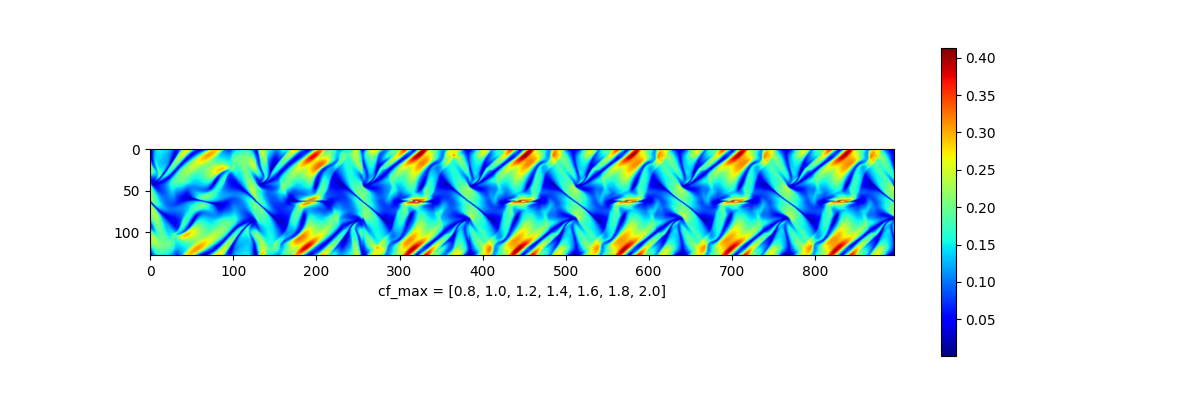
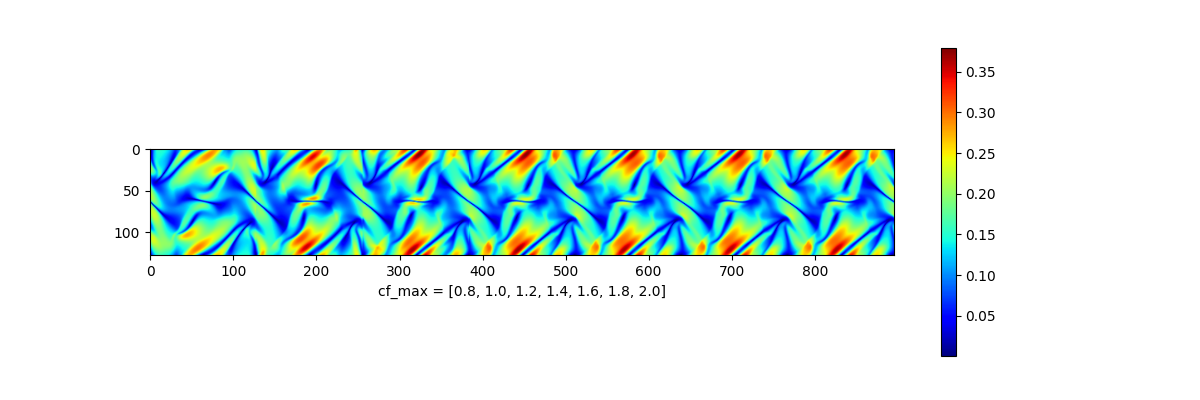
updating analysis figs

diff --git a/mhd-boris.py b/mhd-boris.py
@@ -16,8 +16,6 @@ The original problem has cf_max ~ 1.9, v_max ~ 1.6
 
 # Simulation parameters (global)
 N = 128  # resolution
-boxsize = 1.0
-gamma = 5.0 / 3.0  # ideal gas gamma
 courant_fac = 0.4
 t_end = 0.5
 t_out = 0.01  # draw frequency
@@ -672,6 +670,25 @@ def get_flux_llf(
     flux_Energy  is the matrix of energy fluxes
     """
 
+    # find wavespeeds
+    # c0_L = np.sqrt( gamma*(P_L-0.5*(Bx_L**2+By_L**2+Bz_L**2))/rho_L )
+    # c0_R = np.sqrt( gamma*(P_R-0.5*(Bx_R**2+By_R**2+Bz_R**2))/rho_R )
+    c0_L = np.sqrt(
+        gamma * (np.maximum(P_L - 0.5 * (Bx_L**2 + By_L**2 + Bz_L**2), 1.0e-16)) / rho_L
+    )
+    c0_R = np.sqrt(
+        gamma * (np.maximum(P_R - 0.5 * (Bx_R**2 + By_R**2 + Bz_R**2), 1.0e-16)) / rho_R
+    )
+    ca_L = np.sqrt((Bx_L**2 + By_L**2 + Bz_L**2) / rho_L)
+    ca_R = np.sqrt((Bx_R**2 + By_R**2 + Bz_R**2) / rho_R)
+    cf_L = np.sqrt(c0_L**2 + ca_L**2)
+    cf_R = np.sqrt(c0_R**2 + ca_R**2)
+    # apply boris factor to wave speeds and momentum flux
+    alpha_L = np.minimum(1.0, cf_limit / cf_L)
+    alpha_R = np.minimum(1.0, cf_limit / cf_R)
+    alpha = np.minimum(alpha_L, alpha_R)
+    alphaSq = alpha**2
+
     # left and right energies
     en_L = (
         (P_L - 0.5 * (Bx_L**2 + By_L**2 + Bz_L**2)) / (gamma - 1.0)
@@ -711,29 +728,12 @@ def get_flux_llf(
     flux_By = (By_star * momx_star - Bx_star * momy_star) / rho_star
     flux_Bz = (Bz_star * momx_star - Bx_star * momz_star) / rho_star
 
-    # find wavespeeds
-    # c0_L = np.sqrt( gamma*(P_L-0.5*(Bx_L**2+By_L**2+Bz_L**2))/rho_L )
-    # c0_R = np.sqrt( gamma*(P_R-0.5*(Bx_R**2+By_R**2+Bz_R**2))/rho_R )
-    c0_L = np.sqrt(
-        gamma * (np.maximum(P_L - 0.5 * (Bx_L**2 + By_L**2 + Bz_L**2), 1.0e-16)) / rho_L
-    )
-    c0_R = np.sqrt(
-        gamma * (np.maximum(P_R - 0.5 * (Bx_R**2 + By_R**2 + Bz_R**2), 1.0e-16)) / rho_R
-    )
-    ca_L = np.sqrt((Bx_L**2 + By_L**2 + Bz_L**2) / rho_L)
-    ca_R = np.sqrt((Bx_R**2 + By_R**2 + Bz_R**2) / rho_R)
-    cf_L = np.sqrt(c0_L**2 + ca_L**2)
-    cf_R = np.sqrt(c0_R**2 + ca_R**2)
-    # apply boris factor to wave speeds and momentum flux
-    # alpha_L = np.minimum(1.0, cf_limit / cf_L)
-    # alpha_R = np.minimum(1.0, cf_limit / cf_R)
-    # alpha = np.minimum(alpha_L, alpha_R)
-    # alphaSq = alpha ** 2
     ## Try 1
     # flux_Momx *= alphaSq
     # flux_Momy *= alphaSq
-    # cf_L *= alpha_L
-    # cf_R *= alpha_R
+    # flux_Momz *= alphaSq
+    # cf_L *= alpha
+    # cf_R *= alpha
 
     C_L = cf_L + np.abs(vx_L)
     C_R = cf_R + np.abs(vx_R)
@@ -942,15 +942,13 @@ def main():
         return
 
     # Parse command line argument
-    # problem id & fast speed limit for boris integrator (e.g. try 1.0, 1.5, 2.0)
+    # problem id & fast speed limit for boris integrator (e.g. 1.0, 1.5, 2.0)
     prob_id = int(sys.argv[1])
     cf_limit = float(sys.argv[2])
 
     t = 0.0
     global \
         N, \
-        boxsize, \
-        gamma, \
         courant_fac, \
         t_end, \
         t_out, \
@@ -959,6 +957,7 @@ def main():
         plot_in_real_time
 
     # Mesh
+    boxsize = 1.0
     dx = boxsize / N
     vol = dx**2
     xlin = np.linspace(0.5 * dx, boxsize - 0.5 * dx, N)
@@ -967,9 +966,11 @@ def main():
     # Xn, Yn = np.meshgrid( xlin_node, xlin_node, indexing="ij" )
 
     # Generate Initial Conditions:
+    gamma = 5.0 / 3.0  # ideal gas gamma
     if prob_id == 1:
         # Orszag-Tang vortex problem
-        riemann_solver = "hlld"
+        # riemann_solver = "hlld"
+        t_end = 0.5
         rho = (gamma**2 / (4.0 * np.pi)) * np.ones(X.shape)
         vx = -np.sin(2.0 * np.pi * Y)
         vy = np.sin(2.0 * np.pi * X)
@@ -985,7 +986,7 @@ def main():
         rho = np.ones(X.shape)
         P = 0.1 * np.ones(X.shape)  # init. gas pressure
         amp = 0.1
-        t_end = 4.0
+        t_end = 5.0
 
         alpha = np.pi / 4.0
         Xpar = (np.cos(alpha) * X + np.sin(alpha) * Y) * np.sqrt(2.0)
@@ -1008,6 +1009,7 @@ def main():
 
     elif prob_id == 3:
         # Magnetic Field Loop Test
+        t_end = 1.0
         rho = np.ones(X.shape)
         P = np.ones(X.shape)
         vx = np.ones(X.shape) * np.sin(np.pi / 3.0)
@@ -1157,16 +1159,19 @@ def main():
                 plt.imshow(np.sqrt(bx**2 + by**2).T, cmap="jet")
                 plt.clim(0.0, 0.8)
             elif prob_id == 2:
-                plt.imshow(Bz.T, cmap="jet")
-                plt.clim(-0.1, 0.1)
+                # plt.imshow(Bz.T, cmap="jet")
+                # plt.clim(-0.1, 0.1)
+                plt.plot(Bz[:, N // 2])
+                plt.ylim(-0.2, 0.2)
             elif prob_id == 3:
                 plt.imshow(np.sqrt(bx**2 + by**2).T, cmap="jet")
                 plt.clim(0.0, 0.0011)
             ax = plt.gca()
-            ax.invert_yaxis()
-            ax.get_xaxis().set_visible(False)
-            ax.get_yaxis().set_visible(False)
-            ax.set_aspect("equal")
+            if prob_id != 2:
+                ax.invert_yaxis()
+                ax.get_xaxis().set_visible(False)
+                ax.get_yaxis().set_visible(False)
+                ax.set_aspect("equal")
             plt.pause(0.001)
             out_count += 1
 
@@ -1191,6 +1196,7 @@ def main():
     cf = np.sqrt(c0**2 + ca**2)
     np.save(prefix + "data_rho_" + str(cf_limit) + ".npy", rho.T)
     np.save(prefix + "data_P_B_" + str(cf_limit) + ".npy", P_B.T)
+    np.save(prefix + "data_Bz_" + str(cf_limit) + ".npy", Bz.T)
     np.save(prefix + "data_v_" + str(cf_limit) + ".npy", v.T)
     np.save(prefix + "data_ca_" + str(cf_limit) + ".npy", ca.T)
     np.save(prefix + "data_cf_" + str(cf_limit) + ".npy", cf.T)

diff --git a/analysis.py b/analysis.py
@@ -13,6 +13,7 @@ def main():
 
         rho = {}
         P_B = {}
+        Bz = {}
         v = {}
         ca = {}
         cf = {}
@@ -26,6 +27,9 @@ def main():
             )
             P_B[cf_limit] = np.load(
                 "output/" + prefix + "data_P_B_" + str(cf_limit) + ".npy"
+            )
+            Bz[cf_limit] = np.load(
+                "output/" + prefix + "data_Bz_" + str(cf_limit) + ".npy"
             )
             v[cf_limit] = np.load(
                 "output/" + prefix + "data_v_" + str(cf_limit) + ".npy"
@@ -47,40 +51,59 @@ def main():
         ca_all = np.hstack([ca[cf_limit] for cf_limit in cf_limits])
         cf_all = np.hstack([cf[cf_limit] for cf_limit in cf_limits])
 
-        plt.figure(figsize=(12, 4))
-        plt.imshow(rho_all, aspect=1, cmap="jet")
-        plt.colorbar()
-        plt.xlabel("cf_max = " + str(cf_limits))
-        plt.savefig(prefix + "rho.png")
-        plt.show()
+        if prob_id == 1:
+            plt.figure(figsize=(12, 4))
+            plt.imshow(rho_all, aspect=1, cmap="jet")
+            plt.colorbar()
+            plt.xlabel("cf_max = " + str(cf_limits))
+            plt.savefig(prefix + "rho.png")
+            plt.show()
 
-        plt.figure(figsize=(12, 4))
-        plt.imshow(P_B_all, aspect=1, cmap="jet")
-        plt.colorbar()
-        plt.xlabel("cf_max = " + str(cf_limits))
-        plt.savefig(prefix + "P_B.png")
-        plt.show()
+            plt.figure(figsize=(12, 4))
+            plt.imshow(P_B_all, aspect=1, cmap="jet")
+            plt.colorbar()
+            plt.xlabel("cf_max = " + str(cf_limits))
+            plt.savefig(prefix + "P_B.png")
+            plt.show()
 
-        plt.figure(figsize=(12, 4))
-        plt.imshow(v_all, aspect=1, cmap="jet")
-        plt.colorbar()
-        plt.xlabel("cf_max = " + str(cf_limits))
-        plt.savefig(prefix + "v.png")
-        plt.show()
+            plt.figure(figsize=(12, 4))
+            plt.imshow(v_all, aspect=1, cmap="jet")
+            plt.colorbar()
+            plt.xlabel("cf_max = " + str(cf_limits))
+            plt.savefig(prefix + "v.png")
+            plt.show()
 
-        plt.figure(figsize=(12, 4))
-        plt.imshow(ca_all, aspect=1, cmap="jet")
-        plt.colorbar()
-        plt.xlabel("cf_max = " + str(cf_limits))
-        plt.savefig(prefix + "ca.png")
-        plt.show()
+            plt.figure(figsize=(12, 4))
+            plt.imshow(ca_all, aspect=1, cmap="jet")
+            plt.colorbar()
+            plt.xlabel("cf_max = " + str(cf_limits))
+            plt.savefig(prefix + "ca.png")
+            plt.show()
 
-        plt.figure(figsize=(12, 4))
-        plt.imshow(cf_all, aspect=1, cmap="jet")
-        plt.colorbar()
-        plt.xlabel("cf_max = " + str(cf_limits))
-        plt.savefig(prefix + "cf.png")
-        plt.show()
+            plt.figure(figsize=(12, 4))
+            plt.imshow(cf_all, aspect=1, cmap="jet")
+            plt.colorbar()
+            plt.xlabel("cf_max = " + str(cf_limits))
+            plt.savefig(prefix + "cf.png")
+            plt.show()
+
+        if prob_id == 2:
+            # plot Bz lineout for each cf_limit
+            plt.figure()
+            N = Bz[cf_limit].shape[0]
+            dx = 1.0 / N
+            xlin = np.linspace(0.5 * dx, 1.0 - 0.5 * dx, N)
+            lim = 0.1 * np.ones(N)
+            for cf_limit in cf_limits:
+                plt.plot(xlin, lim, "k--")
+                plt.plot(xlin, -lim, "k--")
+                plt.plot(xlin, Bz[cf_limit][0, :], label="cf_max = " + str(cf_limit))
+                plt.ylim(-0.18, 0.18)
+            plt.legend(loc="upper left")
+            plt.xlabel("x")
+            plt.ylabel("Bz")
+            plt.savefig(prefix + "Bz.png")
+            plt.show()
 
         # plot the dt for each cf_limit
         plt.figure()

diff --git a/README.md b/README.md
@@ -66,23 +66,7 @@ Timesteps:
 ![Analysis1](./p2_dt.png)
 
 
-Density:
+Bz lineout at final time:
 
-![Analysis2](./p2_rho.png)
-
-Magnetic Pressure:
-
-![Analysis3](./p2_P_B.png)
-
-Velocity:
-
-![Analysis4](./p2_v.png)
-
-Alfven Speed: 
-
-![Analysis5](./p2_ca.png)
-
-Fast Speed:
-
-![Analysis6](./p2_cf.png)
+![Analysis2](./p2_Bz.png)
 
